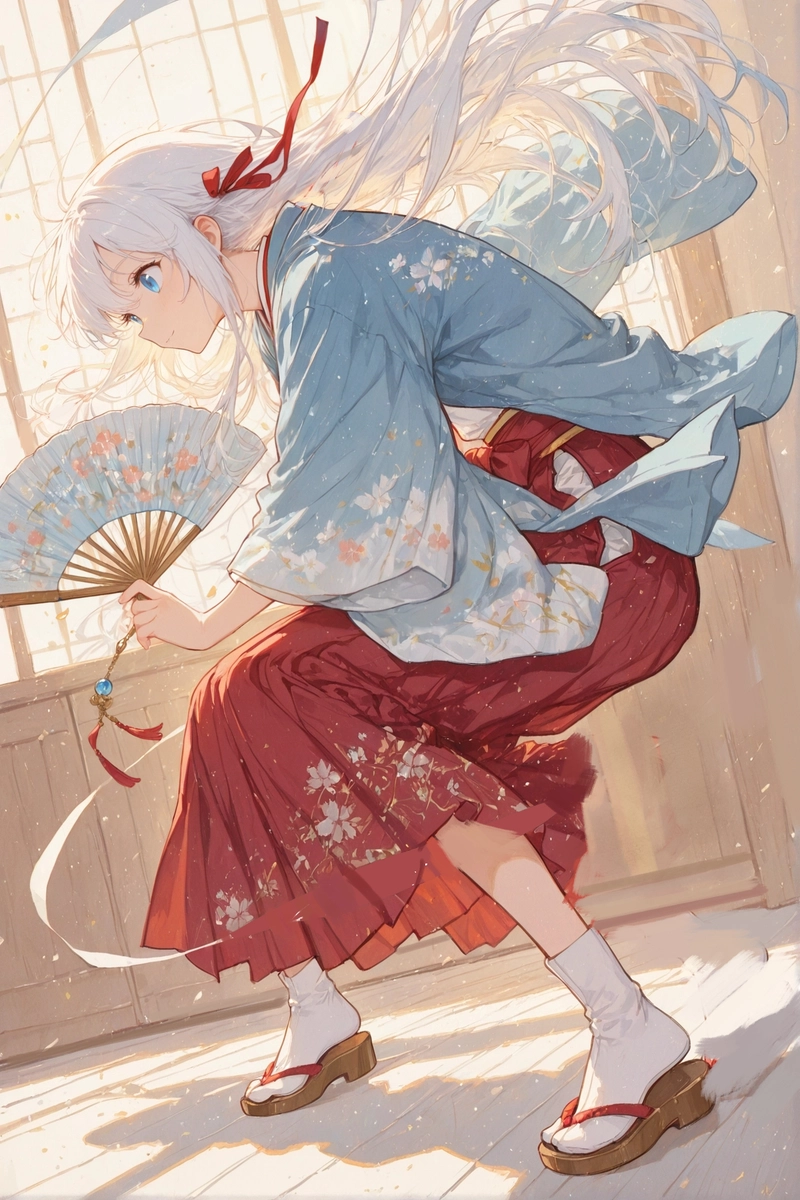
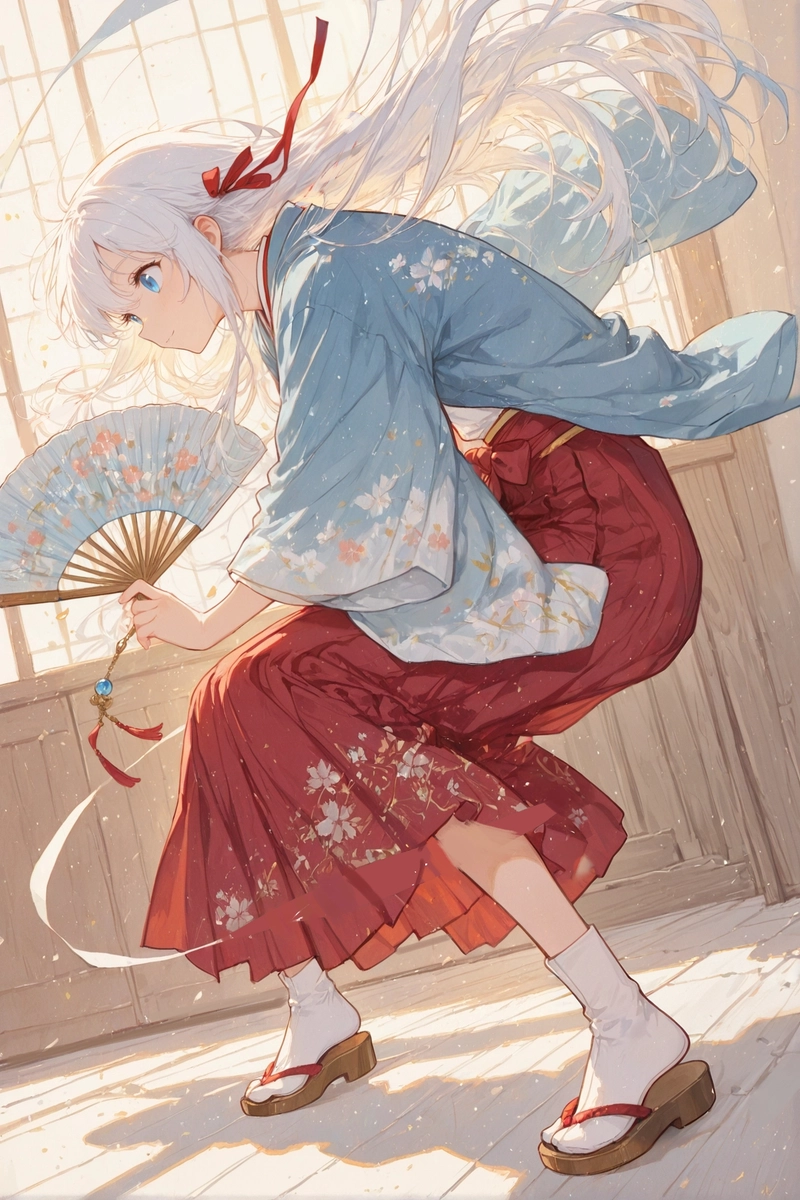
update:

Changed region(s): [[0.5938, 0.3083, 1.0, 0.9558], [0.7188, 0.8325, 0.75, 0.8633], [0.6875, 0.8017, 0.7188, 0.8325]]

diff --git a/about/index.html b/about/index.html
@@ -25,7 +25,7 @@
     <a class="go-up" href="../" title="一つ上の階へ">⏶</a>
     <nav>
       <a href="../gallery/">Gallery</a>
-      <a href="./">About</a>
+      <a href="./">About/contact</a>
       <a href="../process/">Process</a>
       <a href="../contact/">Contact</a>
       <a href="../link/">Link</a>
